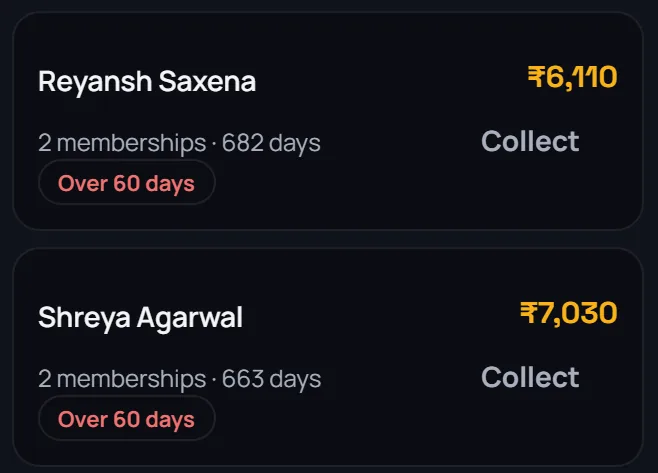
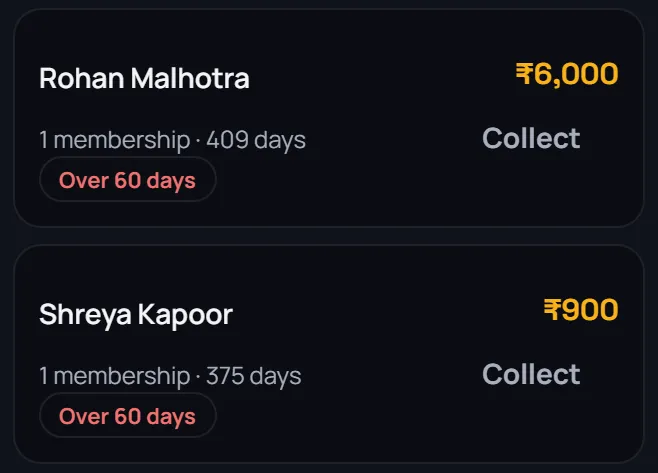
Website: owner's 30 Oct prices (#30 A), newest features, fresh admin pictures
- Pro Rs 1,999 -> 1,499 a month (19,990 -> 14,990 a year); "AI" Rs 2,999 -> "Pro + AI"
  Rs 2,499 a month / 24,990 a year, still Coming. Founding gyms: first 50 -> first 25, until
  31 March 2027. Extra branches at half price (#41). "Own it" stays off the site (on request).
- Pack table follows R-pricing-jaipur: Pro adds logo and colours, shop, monthly challenge,
  workout offers, trainer/diet plans and measurements, owner numbers (T66 builds the split).
  New live features: QR check-in (scan in the app or at the desk), desk webcam photos for ID
  cards, Wear OS watch. Fresh-reader word pass applied (English + Hindi).
- tiles.webp / dues-list.webp re-made from today's admin app (zz-shots, new crop boxes:
  Today now opens with the shop card).
- HQ: BRANCH_PRICES pro 1499; group price words use half price for extra branches.
  New test: the page carries the approved prices in English and Hindi, none of the old ones.

diff --git a/apps/dashboard/public/home/index.html b/apps/dashboard/public/home/index.html
@@ -687,7 +687,7 @@ section{position:relative}
       <div class="beatcol">
         <ul class="pts">
         <li data-hi="आपके मेंबर ऐप के लिए कभी पैसे नहीं देते।">Your members never pay to use the app.</li>
-        <li><span data-hi="ज़्यादातर जिम सॉफ़्टवेयर में नाम वाले मेंबर ऐप के लिए ज़्यादा पैसे लगते हैं। यहाँ यह हर पैक में है।">Most gym software charges more for a branded member app. Here it is in every pack.</span> <span class="only extra" data-hi="आम तौर पर अलग से">Usually extra</span></li>
+        <li><span data-hi="ज़्यादातर जिम सॉफ़्टवेयर में जिम के नाम वाले मेंबर ऐप के लिए ज़्यादा पैसे लगते हैं। यहाँ यह हर पैक में है। Pro में आपका लोगो और रंग भी।">Most gym software charges more for a member app with the gym's name. Here every pack has one. Pro adds your logo and colours.</span> <span class="only extra" data-hi="आम तौर पर अलग से">Usually extra</span></li>
         </ul>
       </div>
     </div>
@@ -807,6 +807,7 @@ section{position:relative}
         <li><span><b data-hi="आपके मैसेज">Your messages</b> <span data-hi="ऐप के इनबॉक्स में, मुफ्त">in the app's inbox, free</span></span><span class="v" role="img" aria-label="included" data-hi-label="शामिल"><svg viewBox="0 0 18 18" aria-hidden="true"><path d="M3 9.5l3.6 3.4L15 4.8" stroke="#0B0B0D" stroke-width="3" fill="none" stroke-linecap="round" stroke-linejoin="round"/></svg></span></li>
         <li><span data-hi="बिना इंटरनेट भी वर्कआउट लिखें">Logs workouts with no internet</span><span class="v" role="img" aria-label="included" data-hi-label="शामिल"><svg viewBox="0 0 18 18" aria-hidden="true"><path d="M3 9.5l3.6 3.4L15 4.8" stroke="#0B0B0D" stroke-width="3" fill="none" stroke-linecap="round" stroke-linejoin="round"/></svg></span></li>
         <li><span data-hi="मैसेज फोन की लॉक स्क्रीन पर पॉप-अप">Messages pop up on the phone's lock screen</span><span class="v" role="img" aria-label="included" data-hi-label="शामिल"><svg viewBox="0 0 18 18" aria-hidden="true"><path d="M3 9.5l3.6 3.4L15 4.8" stroke="#0B0B0D" stroke-width="3" fill="none" stroke-linecap="round" stroke-linejoin="round"/></svg></span></li>
+        <li><span data-hi="Android (Wear OS) घड़ी पर रेस्ट टाइमर और हार्ट रेट">Rest timer and heart rate on an Android (Wear OS) watch</span><span class="v" role="img" aria-label="included" data-hi-label="शामिल"><svg viewBox="0 0 18 18" aria-hidden="true"><path d="M3 9.5l3.6 3.4L15 4.8" stroke="#0B0B0D" stroke-width="3" fill="none" stroke-linecap="round" stroke-linejoin="round"/></svg></span></li>
         <li><span data-hi="जिम देखे कौन तरक्की कर रहा है (मेंबर की मंज़ूरी से)">Gym sees who is progressing (with the member's OK)</span><span class="v"><span class="soon" data-hi="जल्द">Coming</span></span></li>
         <li><span data-hi="हिंदी में मेंबर ऐप">Member app in Hindi</span><span class="v"><span class="soon" data-hi="जल्द">Coming</span></span></li>
       </ul>
@@ -1054,6 +1055,8 @@ section{position:relative}
         <li data-hi="<b>स्टाफ लॉगिन</b>, छूट की सीमा के साथ। कुल रकम सिर्फ आप देखते हैं"><b>Staff logins</b> with a discount limit. Only you see the totals</li>
         <li data-hi="<b>कई ब्रांच</b>, एक ही साइन-इन से"><b>Several branches</b> from one sign-in</li>
         <li data-hi="खर्च, मुनाफा, पूछताछ, पर्सनल ट्रेनिंग पैक और मेंबर ID कार्ड">Expenses, profit, enquiries, personal-training packs and member ID cards</li>
+        <li data-hi="<b>चेक-इन</b>: मेंबर ऐप में आपका QR पोस्टर स्कैन करें, या डेस्क पर चेक-इन करवाएँ"><b>Check-ins</b>: members scan your QR poster in the app, or check in at the desk</li>
+        <li data-hi="<b>मेंबर की फोटो</b> डेस्क कंप्यूटर के वेबकैम से, ID कार्ड के लिए"><b>Member photos</b> from the desk computer's webcam, for ID cards</li>
         <li data-hi="अपना पूरा डेटा जब चाहें Excel में डाउनलोड करें">Download all your data to Excel whenever you want</li>
         <li class="wide" data-hi="<b>बिना इंटरनेट भी चलती है</b>, डेस्क के फोन या कंप्यूटर पर"><b>Desk works without internet</b>, on the desk phone or the computer</li>
       </ul>
@@ -1089,25 +1092,30 @@ section{position:relative}
           <tr class="ph">
             <th scope="col"><span class="ph-t" data-hi="पैक, हर ब्रांच के">Packs, per branch</span></th>
             <th scope="col"><span class="pk" data-hi="स्टार्टर">Starter</span><span class="pr">₹999</span><span class="per" data-hi="महीना">a month</span><span class="yr" data-hi="₹9,990 साल का">₹9,990 a year</span></th>
-            <th scope="col" class="best"><span class="pk">Pro</span><span class="pr">₹1,999</span><span class="per" data-hi="महीना">a month</span><span class="yr" data-hi="₹19,990 साल का">₹19,990 a year</span></th>
-            <th scope="col"><span class="pk">AI</span><span class="pr">₹2,999</span><span class="per" data-hi="महीना">a month</span><span class="yr"><span class="soon" data-hi="जल्द">Coming</span></span></th>
+            <th scope="col" class="best"><span class="pk">Pro</span><span class="pr">₹1,499</span><span class="per" data-hi="महीना">a month</span><span class="yr" data-hi="₹14,990 साल का">₹14,990 a year</span></th>
+            <th scope="col"><span class="pk">Pro + AI</span><span class="pr">₹2,499</span><span class="per" data-hi="महीना">a month</span><span class="yr"><span data-hi="₹24,990 साल का">₹24,990 a year</span> <span class="soon" data-hi="जल्द">Coming</span></span></th>
           </tr>
         </thead>
         <tbody>
           <tr class="grp"><th colspan="4" scope="colgroup" data-hi="MettleUp की खास बातें">What sets MettleUp apart</th></tr>
-          <tr><th scope="row"><span data-hi="हर मेंबर के लिए आपके जिम के नाम का वर्कआउट ऐप, मुफ्त">Branded workout app for every member, free</span> <span class="only extra" data-hi="आम तौर पर अलग से">Usually extra</span></th><td class="y"><span class="sr" data-hi="हाँ">Yes</span></td><td class="y"><span class="sr" data-hi="हाँ">Yes</span></td><td class="y"><span class="sr" data-hi="हाँ">Yes</span></td></tr>
+          <tr><th scope="row"><span data-hi="हर मेंबर के लिए मुफ्त वर्कआउट ऐप, आपके जिम के नाम के साथ">Free workout app for every member, with your gym's name</span> <span class="only extra" data-hi="आम तौर पर अलग से">Usually extra</span></th><td class="y"><span class="sr" data-hi="हाँ">Yes</span></td><td class="y"><span class="sr" data-hi="हाँ">Yes</span></td><td class="y"><span class="sr" data-hi="हाँ">Yes</span></td></tr>
           <tr><th scope="row"><span data-hi="किसी भी Excel शीट से AI इम्पोर्ट">AI import from any Excel sheet</span> <span class="only" data-hi="सिर्फ यहाँ">Only here</span></th><td class="y"><span class="sr" data-hi="हाँ">Yes</span></td><td class="y"><span class="sr" data-hi="हाँ">Yes</span></td><td class="y"><span class="sr" data-hi="हाँ">Yes</span></td></tr>
           <tr><th scope="row"><span data-hi="बिना इंटरनेट भी चलने वाला डेस्क सॉफ़्टवेयर">Desk software that works without internet</span></th><td class="y"><span class="sr" data-hi="हाँ">Yes</span></td><td class="y"><span class="sr" data-hi="हाँ">Yes</span></td><td class="y"><span class="sr" data-hi="हाँ">Yes</span></td></tr>
           <tr><th scope="row"><span data-hi="आना बंद करने वाले मेंबरों की रोज़ की लिस्ट">Daily list of members who stopped coming</span></th><td class="y"><span class="sr" data-hi="हाँ">Yes</span></td><td class="y"><span class="sr" data-hi="हाँ">Yes</span></td><td class="y"><span class="sr" data-hi="हाँ">Yes</span></td></tr>
-          <tr><th scope="row"><span data-hi="मेंबरों के फोन में ट्रेनर के प्लान">Trainer plans in members' phones</span></th><td class="y"><span class="sr" data-hi="हाँ">Yes</span></td><td class="y"><span class="sr" data-hi="हाँ">Yes</span></td><td class="y"><span class="sr" data-hi="हाँ">Yes</span></td></tr>
           <tr><th scope="row"><span data-hi="हर मेंबर के ऐप में मुफ्त मैसेज">Free messages to every member's app</span></th><td class="y"><span class="sr" data-hi="हाँ">Yes</span></td><td class="y"><span class="sr" data-hi="हाँ">Yes</span></td><td class="y"><span class="sr" data-hi="हाँ">Yes</span></td></tr>
           <tr class="grp"><th colspan="4" scope="colgroup" data-hi="डेस्क का रोज़ का काम">The usual desk work</th></tr>
           <tr><th scope="row"><span data-hi="मेंबर, प्लान, रिन्यूअल और बकाया">Members, plans, renewals and dues</span></th><td class="y"><span class="sr" data-hi="हाँ">Yes</span></td><td class="y"><span class="sr" data-hi="हाँ">Yes</span></td><td class="y"><span class="sr" data-hi="हाँ">Yes</span></td></tr>
           <tr><th scope="row"><span data-hi="GST इनवॉइस">GST invoices</span></th><td class="y"><span class="sr" data-hi="हाँ">Yes</span></td><td class="y"><span class="sr" data-hi="हाँ">Yes</span></td><td class="y"><span class="sr" data-hi="हाँ">Yes</span></td></tr>
           <tr><th scope="row"><span data-hi="WhatsApp संदेश">WhatsApp messages</span></th><td class="y"><span class="sr" data-hi="हाँ">Yes</span></td><td class="y"><span class="sr" data-hi="हाँ">Yes</span></td><td class="y"><span class="sr" data-hi="हाँ">Yes</span></td></tr>
           <tr><th scope="row"><span data-hi="स्टाफ लॉगिन">Staff logins</span></th><td class="y"><span class="sr" data-hi="हाँ">Yes</span></td><td class="y"><span class="sr" data-hi="हाँ">Yes</span></td><td class="y"><span class="sr" data-hi="हाँ">Yes</span></td></tr>
+          <tr><th scope="row"><span data-hi="QR पोस्टर से या डेस्क पर चेक-इन">Check-in by QR poster or at the desk</span></th><td class="y"><span class="sr" data-hi="हाँ">Yes</span></td><td class="y"><span class="sr" data-hi="हाँ">Yes</span></td><td class="y"><span class="sr" data-hi="हाँ">Yes</span></td></tr>
           <tr class="grp"><th colspan="4" scope="colgroup" data-hi="Pro में और">Pro adds</th></tr>
+          <tr><th scope="row"><span data-hi="ऐप में आपका लोगो और रंग">Your logo and colours in the app</span></th><td class="n"><span class="sr" data-hi="नहीं">No</span></td><td class="y"><span class="sr" data-hi="हाँ">Yes</span></td><td class="y"><span class="sr" data-hi="हाँ">Yes</span></td></tr>
           <tr><th scope="row"><span data-hi="ऐप में आपकी दुकान">Your shop in the app</span></th><td class="n"><span class="sr" data-hi="नहीं">No</span></td><td class="y"><span class="sr" data-hi="हाँ">Yes</span></td><td class="y"><span class="sr" data-hi="हाँ">Yes</span></td></tr>
+          <tr><th scope="row"><span data-hi="हर महीने का चैलेंज, लीडरबोर्ड के साथ">Monthly challenge with a leaderboard</span></th><td class="n"><span class="sr" data-hi="नहीं">No</span></td><td class="y"><span class="sr" data-hi="हाँ">Yes</span></td><td class="y"><span class="sr" data-hi="हाँ">Yes</span></td></tr>
+          <tr><th scope="row"><span data-hi="अक्सर वर्कआउट करने वाले मेंबरों को प्लान के ज़्यादा दिन (नियम आप तय करें)">Extra plan days for members who work out often (you set the rule)</span></th><td class="n"><span class="sr" data-hi="नहीं">No</span></td><td class="y"><span class="sr" data-hi="हाँ">Yes</span></td><td class="y"><span class="sr" data-hi="हाँ">Yes</span></td></tr>
+          <tr><th scope="row"><span data-hi="ट्रेनर के प्लान, डाइट प्लान और शरीर के माप, मेंबरों के फोन में">Trainer plans, diet plans and body measurements in members' phones</span></th><td class="n"><span class="sr" data-hi="नहीं">No</span></td><td class="y"><span class="sr" data-hi="हाँ">Yes</span></td><td class="y"><span class="sr" data-hi="हाँ">Yes</span></td></tr>
+          <tr><th scope="row"><span data-hi="आपके आंकड़े: जमा फीस, नए मेंबर, सबसे ज़्यादा भीड़ के घंटे">Your numbers: fees collected, new members, busiest hours</span></th><td class="n"><span class="sr" data-hi="नहीं">No</span></td><td class="y"><span class="sr" data-hi="हाँ">Yes</span></td><td class="y"><span class="sr" data-hi="हाँ">Yes</span></td></tr>
           <tr class="grp"><th colspan="4" scope="colgroup" data-hi="जल्द आ रहा है">Coming</th></tr>
           <tr><th scope="row"><span data-hi="ऐप में फीस भरना">Paying fees in the app</span></th><td class="n"><span class="sr" data-hi="नहीं">No</span></td><td class="c"><span class="soon" data-hi="जल्द">Coming</span></td><td class="c"><span class="soon" data-hi="जल्द">Coming</span></td></tr>
           <tr><th scope="row"><span data-hi="एंट्री गेट">The entry gate</span></th><td class="n"><span class="sr" data-hi="नहीं">No</span></td><td class="c"><span class="soon" data-hi="जल्द">Coming</span></td><td class="c"><span class="soon" data-hi="जल्द">Coming</span></td></tr>
@@ -1115,13 +1123,13 @@ section{position:relative}
           <tr><th scope="row"><span data-hi="आपके लिए AI सहायक">AI helper for you</span></th><td class="n"><span class="sr" data-hi="नहीं">No</span></td><td class="n"><span class="sr" data-hi="नहीं">No</span></td><td class="c"><span class="soon" data-hi="जल्द">Coming</span></td></tr>
         </tbody>
       </table>
-      <p class="foot" data-hi="दाम हर ब्रांच के हैं। मुफ्त 3 महीने के बाद UPI या बैंक ट्रांसफर से भरें, रसीद मिलती है। कभी भी बंद करें: आपका पूरा डेटा एक टैप में Excel में।">Prices are per branch. After the free 3 months, pay by UPI or bank transfer and get a receipt. Stop any time: all your data goes to Excel in one tap.</p>
+      <p class="foot" data-hi="दाम हर ब्रांच के हैं: पहली ब्रांच पूरे दाम पर, हर अगली ब्रांच आधे दाम पर। मुफ्त 3 महीने के बाद UPI या बैंक ट्रांसफर से भरें, रसीद मिलती है। कभी भी बंद करें: आपका पूरा डेटा एक टैप में Excel में।">Prices are per branch: your first branch pays full price, each extra branch pays half. After the free 3 months, pay by UPI or bank transfer and get a receipt. Stop any time: all your data goes to Excel in one tap.</p>
     </div>
 <div class="founder">
-      <svg class="sticker fseal" viewBox="0 0 100 100" aria-hidden="true"><path d="M50.0 2.0 L55.6 7.4 L62.4 3.6 L66.5 10.3 L74.0 8.4 L76.2 15.9 L83.9 16.1 L84.1 23.8 L91.6 26.0 L89.7 33.5 L96.4 37.6 L92.6 44.4 L98.0 50.0 L92.6 55.6 L96.4 62.4 L89.7 66.5 L91.6 74.0 L84.1 76.2 L83.9 83.9 L76.2 84.1 L74.0 91.6 L66.5 89.7 L62.4 96.4 L55.6 92.6 L50.0 98.0 L44.4 92.6 L37.6 96.4 L33.5 89.7 L26.0 91.6 L23.8 84.1 L16.1 83.9 L15.9 76.2 L8.4 74.0 L10.3 66.5 L3.6 62.4 L7.4 55.6 L2.0 50.0 L7.4 44.4 L3.6 37.6 L10.3 33.5 L8.4 26.0 L15.9 23.8 L16.1 16.1 L23.8 15.9 L26.0 8.4 L33.5 10.3 L37.6 3.6 L44.4 7.4Z" fill="var(--sticker)"/><circle cx="50" cy="50" r="36" fill="none" stroke="var(--label-ink)" stroke-width="1.6" stroke-dasharray="3 3"/><text x="50" y="46" font-size="17" data-hi="पहले 50">FIRST 50</text><text x="50" y="64" font-size="17" data-hi="जिम">GYMS</text></svg>
+      <svg class="sticker fseal" viewBox="0 0 100 100" aria-hidden="true"><path d="M50.0 2.0 L55.6 7.4 L62.4 3.6 L66.5 10.3 L74.0 8.4 L76.2 15.9 L83.9 16.1 L84.1 23.8 L91.6 26.0 L89.7 33.5 L96.4 37.6 L92.6 44.4 L98.0 50.0 L92.6 55.6 L96.4 62.4 L89.7 66.5 L91.6 74.0 L84.1 76.2 L83.9 83.9 L76.2 84.1 L74.0 91.6 L66.5 89.7 L62.4 96.4 L55.6 92.6 L50.0 98.0 L44.4 92.6 L37.6 96.4 L33.5 89.7 L26.0 91.6 L23.8 84.1 L16.1 83.9 L15.9 76.2 L8.4 74.0 L10.3 66.5 L3.6 62.4 L7.4 55.6 L2.0 50.0 L7.4 44.4 L3.6 37.6 L10.3 33.5 L8.4 26.0 L15.9 23.8 L16.1 16.1 L23.8 15.9 L26.0 8.4 L33.5 10.3 L37.6 3.6 L44.4 7.4Z" fill="var(--sticker)"/><circle cx="50" cy="50" r="36" fill="none" stroke="var(--label-ink)" stroke-width="1.6" stroke-dasharray="3 3"/><text x="50" y="46" font-size="17" data-hi="पहले 25">FIRST 25</text><text x="50" y="64" font-size="17" data-hi="जिम">GYMS</text></svg>
       <div class="f-text">
         <h3 class="cond" data-hi="फाउंडिंग जिम: Pro हमेशा के लिए, एक बार का भुगतान।">Founding gym: Pro for life, one payment.</h3>
-        <p data-hi="एक ब्रांच के लिए एक बार ₹29,999 दीजिए, और Pro के लिए फिर कभी कुछ मत दीजिए। सिर्फ पहले 50 जिमों के लिए।">Pay ₹29,999 once for one branch, and never pay for Pro again. Only for the first 50 gyms.</p>
+        <p data-hi="एक ब्रांच के लिए एक बार ₹29,999 दीजिए, और Pro के लिए फिर कभी कुछ मत दीजिए। सिर्फ पहले 25 जिम, और सिर्फ 31 मार्च 2027 तक।">Pay ₹29,999 once for one branch, and never pay for Pro again. Only for the first 25 gyms, and only until 31 March 2027.</p>
         <p class="f-how" data-hi="पहले अपने मुफ्त 3 महीने शुरू करें, और उनके खत्म होने से पहले हमें बताइए। AI पैक आने पर वह अलग से होगा।">Start your free 3 months first, and tell us before they end. The AI pack is extra when it comes.</p>
       </div>
       <a class="go" href="https://app.mettleup.fit/start" data-hi="मुफ्त शुरू करें">Start free</a>

diff --git a/apps/hq/public/logic.js b/apps/hq/public/logic.js
@@ -518,8 +518,14 @@ export function csvName(now = Date.now()) {
 // prices are PER BRANCH (the landing page says so); HQ shows that as information only: nothing is
 // billed from here.
 
-/** The landing page's monthly prices per branch, in rupees (apps/dashboard/public/home). */
-export const BRANCH_PRICES = { starter: 999, pro: 1999 };
+/** The landing page's monthly prices per branch, in rupees (apps/dashboard/public/home).
+ *  Owner's pick A on #30 (30 Oct 2026): Starter ₹999, Pro ₹1,499. A 2nd or later branch pays half (#41). */
+export const BRANCH_PRICES = { starter: 999, pro: 1499 };
+
+/** A 2nd or later branch's monthly price: half, rounded down (₹999 -> ₹499, ₹1,499 -> ₹749). PURE. */
+export function extraBranchPrice(price) {
+  return Math.floor((Number(price) || 0) / 2);
+}
 
 /** gymId -> { groupId, groupName, branchNo, branches } for every gym in a group. PURE. */
 export function branchOf(groups) {
@@ -549,9 +555,10 @@ export function groupCards(groups, gyms) {
     .sort((a, b) => b.branches.length - a.branches.length || b.membersRegister - a.membersRegister || String(a.name).localeCompare(String(b.name)));
 }
 
-/** "3 branches: priced per branch, e.g. Starter ₹2,997 or Pro ₹5,997 a month in all (information only)." PURE. */
+/** "3 branches: the first at full price, the others at half, so Starter ₹1,997 or Pro ₹2,997 a month
+ *  for all of them (information only)." PURE. */
 export function groupPriceWords(branches) {
   const n = Number(branches) || 0;
-  const r = (x) => `₹${(x * n).toLocaleString('en-IN')}`;
-  return `${count(n, 'branch', 'branches')}: priced per branch, so Starter ${r(BRANCH_PRICES.starter)} or Pro ${r(BRANCH_PRICES.pro)} a month for all of them. Information only: nothing is billed here.`;
+  const r = (x) => `₹${(n > 0 ? x + extraBranchPrice(x) * (n - 1) : 0).toLocaleString('en-IN')}`;
+  return `${count(n, 'branch', 'branches')}: the first at full price, the others at half, so Starter ${r(BRANCH_PRICES.starter)} or Pro ${r(BRANCH_PRICES.pro)} a month for all of them. Information only: nothing is billed here.`;
 }
